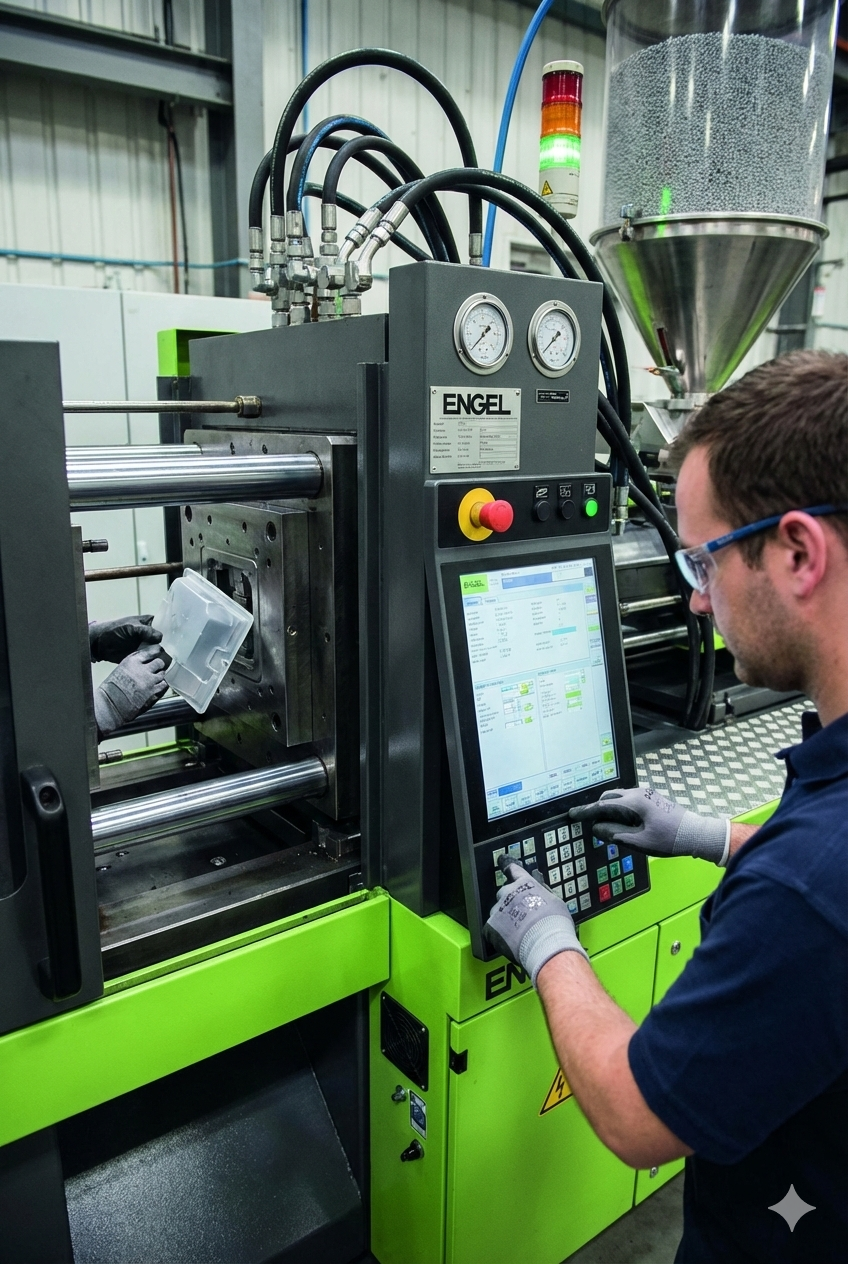
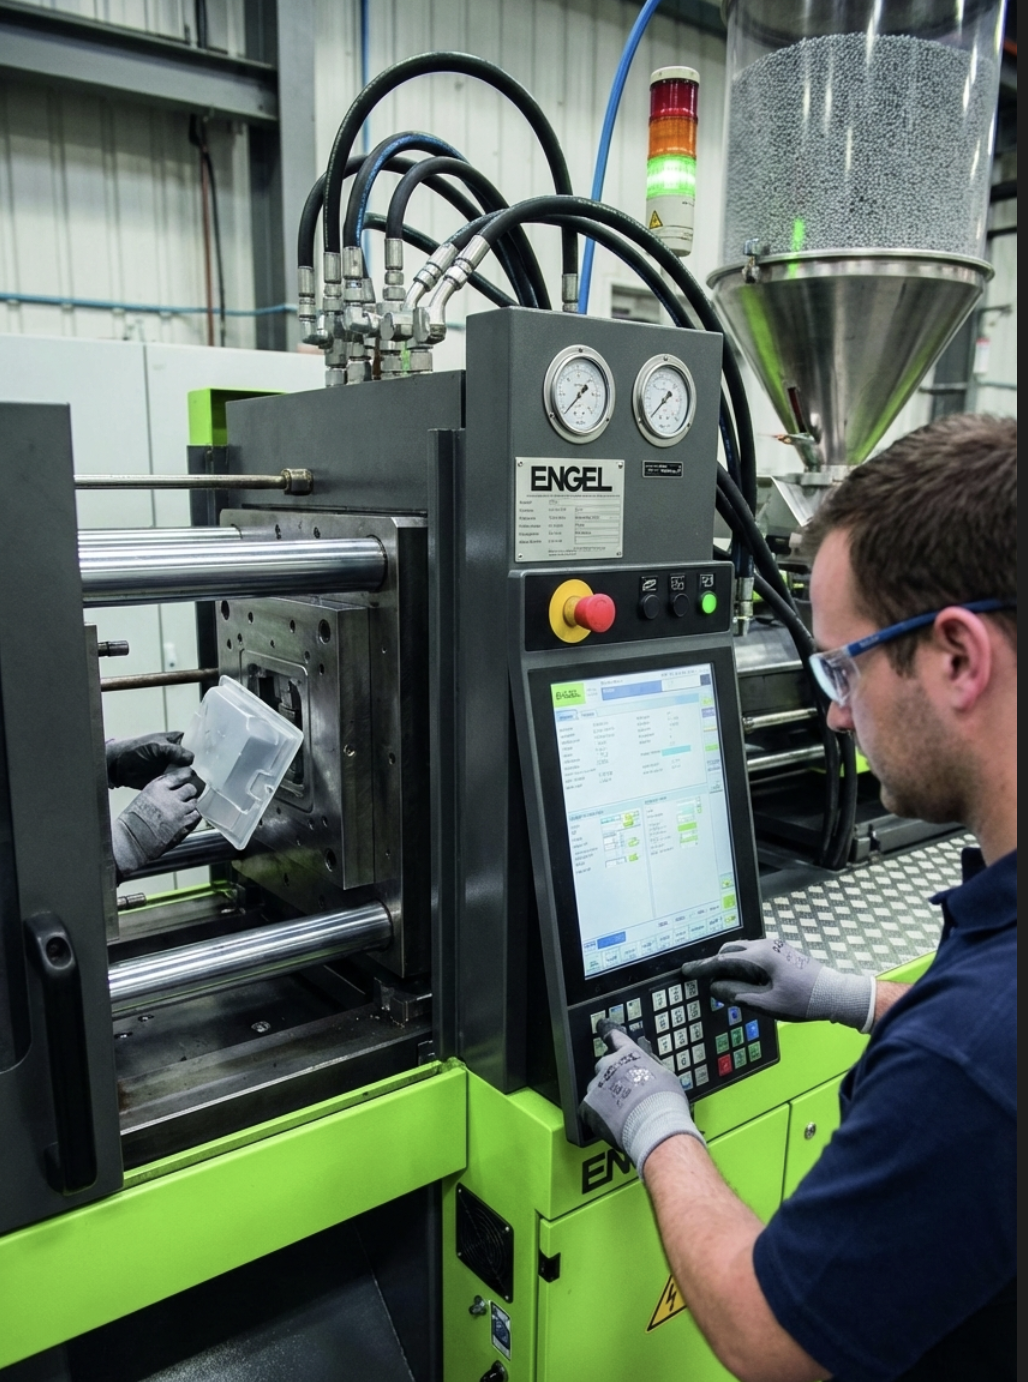
Final changes by friend

diff --git a/src/components/Navigation.tsx b/src/components/Navigation.tsx
@@ -1,14 +1,21 @@
 import { useState, useEffect } from 'react';
 import { Menu, X, MapPin, Mail, Phone } from 'lucide-react';
+import { useLocation, useNavigate } from 'react-router-dom';
 
 export default function Navigation() {
   const [isOpen, setIsOpen] = useState(false);
 
+  const location = useLocation();
+  const navigate = useNavigate();
+
   const scrollToSection = (id: string) => {
-    const element = document.getElementById(id);
-    if (element) {
-      element.scrollIntoView({ behavior: 'smooth' });
-      setIsOpen(false); // Close mobile menu after click
+    if (location.pathname === '/') {
+      const element = document.getElementById(id);
+      element?.scrollIntoView({ behavior: 'smooth' });
+      setIsOpen(false);
+    } else {
+      setIsOpen(false);
+      navigate(`/#${id}`);
     }
   };
 

diff --git a/index.html b/index.html
@@ -2,9 +2,9 @@
 <html lang="en">
   <head>
     <meta charset="UTF-8" />
-    <link rel="icon" type="image/svg+xml" href="/vite.svg" />
+    <link rel="icon" type="image/svg+xml" href="/fav-icon.svg" />
     <meta name="viewport" content="width=device-width, initial-scale=1.0" />
-    <title>SILVER PROFILE Website Design</title>
+    <title>SILVER PROFILE</title>
     <meta name="description" content="ISO 9001:2015 certified plastic injection molding and contract manufacturing. 30+ years of excellence serving automotive, electronics, pharma, aerospace industries." />
     <meta property="og:image" content="https://bolt.new/static/og_default.png">
     <meta name="twitter:card" content="summary_large_image">

diff --git a/src/pages/Home.jsx b/src/pages/Home.jsx
@@ -9,8 +9,24 @@ import WhyChooseUs from '../components/WhyChooseUs';
 import Stats from '../components/Stats';
 import Contact from '../components/Contact';
 import Navigation from '../components/Navigation';
+import { useLocation } from 'react-router-dom';
+import { useEffect } from 'react';
 
 function Home() {
+
+  const location = useLocation();
+
+  useEffect(() => {
+    if (location.hash) {
+      const id = location.hash.replace('#', '');
+      const element = document.getElementById(id);
+
+      setTimeout(() => {
+        element?.scrollIntoView({ behavior: 'smooth' });
+      }, 100);
+    }
+  }, [location]);
+
   return (
     <div className="min-h-screen bg-white">
       <Navigation />

diff --git a/src/components/Footer.tsx b/src/components/Footer.tsx
@@ -1,10 +1,16 @@
-import { Factory, Facebook, Instagram, Linkedin, Mail, Phone, MapPin } from 'lucide-react';
+import { Mail, Phone, MapPin } from 'lucide-react';
+import { useLocation, useNavigate } from 'react-router-dom';
 
 export default function Footer() {
+  const location = useLocation();
+  const navigate = useNavigate();
+
   const scrollToSection = (id: string) => {
-    const element = document.getElementById(id);
-    if (element) {
-      element.scrollIntoView({ behavior: 'smooth' });
+    if (location.pathname === '/') {
+      const element = document.getElementById(id);
+      element?.scrollIntoView({ behavior: 'smooth' });
+    } else {
+      navigate(`/#${id}`);
     }
   };
 

diff --git a/src/components/Services.tsx b/src/components/Services.tsx
@@ -44,9 +44,9 @@ export default function Services() {
     // },
     // {
     //   icon: Box,
-    //   title: 'Runner Compression Molding',
+    //   title: 'Rubber Compression Molding',
     //   description:
-    //     'Along with plastic injection molding, We also offer Runner Compression Molding to shape runner components, Which can later be integrated with injection-molded plastic component.'
+    //     'Along with plastic injection molding, We also offer Rubber Compression Molding to shape rubber components, Which can later be integrated with injection-molded plastic component.'
     // },
     // {
     //   icon: Box,

diff --git a/src/components/Stats.tsx b/src/components/Stats.tsx
@@ -11,7 +11,7 @@ export default function Stats() {
   return (
     <section className="py-14 sm:py-16 lg:py-20 bg-gradient-to-r from-blue-600 to-blue-800 relative overflow-hidden">
       {/* Background Image */}
-      <div className="absolute inset-0 bg-[url('assets/main-gate.png')] bg-cover bg-center opacity-10"></div>
+      <div className="absolute inset-0 bg-[url('/assets/main-gate.png')] bg-cover bg-center opacity-10"></div>
 
       <div className="relative z-10 max-w-7xl mx-auto px-4 sm:px-6 lg:px-8">
         <div className="grid grid-cols-2 sm:grid-cols-2 lg:grid-cols-3 gap-6 sm:gap-8">

diff --git a/src/components/ImageGrid.jsx b/src/components/ImageGrid.jsx
@@ -6,7 +6,7 @@ const imagesData = [
     src: "assets/allied/image2.png",
     alt: "Rubber compression molding",
     title: "Rubber Compression Molding",
-    desc: "Along with plastic injection molding, We also offer Runner Compression Molding to shape runner components, Which can later be integrated with injection-molded plastic component."
+    desc: "Along with plastic injection molding, We also offer Rubber Compression Molding to shape rubber components, Which can later be integrated with injection-molded plastic component."
   },
   {
     id: 2,

diff --git a/src/components/Hero.tsx b/src/components/Hero.tsx
@@ -18,11 +18,10 @@ export default function Hero() {
       {/* Overlay */}
       <div className="absolute inset-0 bg-black/40"></div>
 
-      {/* Background Image */}
-      <div // /Users/jaydeepsathwara/Downloads/Silver Profile company  images/Main Front Photo/Gemini_Generated_Image_nkfmsznkfmsznkfm.png
+      <div
         className="
           absolute inset-0
-          bg-[url('assets/hero-background.png')]
+          bg-[url('/assets/hero-background.png')]
           bg-cover bg-center
           opacity-20
         "

diff --git a/src/components/HeroSection.tsx b/src/components/HeroSection.tsx
@@ -2,7 +2,6 @@ export default function HeroSection({title1 = '', title2 = ''}) {
 
   return (
     <div
-      id="home"
       className="
         relative
         min-h-[50svh]
@@ -16,7 +15,7 @@ export default function HeroSection({title1 = '', title2 = ''}) {
       <div
         className="
           absolute inset-0
-          bg-[url('public/assets/hero-background.png')]
+          bg-[url('/assets/hero-background.png')]
           bg-cover bg-center
           opacity-20
         "

diff --git a/src/pages/AlliedServices.jsx b/src/pages/AlliedServices.jsx
@@ -5,7 +5,7 @@ import HeroSection from '../components/HeroSection';
 const AlliedServices = () => {
   return (
     <div>
-      <div className='' style={{marginTop: '120px'}}>
+      <div className='' style={{marginTop: '100px'}}>
         <HeroSection title1={'Complete Molding Solutions'} title2={'Design Through Delivery'} />
       <BackBtn />
         <b className='flex justify-center' style={{color: '#1515b8', fontSize: '30px'}} >End to End Solutions</b>

diff --git a/src/pages/PlasticMolding.jsx b/src/pages/PlasticMolding.jsx
@@ -7,7 +7,7 @@ import Machines from '../components/Machines';
 const PlasticMolding = () => {
   return (
     <div>
-      <div className='' style={{ marginTop: '120px' }}>
+      <div className='' style={{ marginTop: '100px' }}>
         <HeroPlasticMolding title1={'Comprehensive Plastic Injection'} title2={'Moulding Solutions'} />
         <BackBtn />
         <div>
